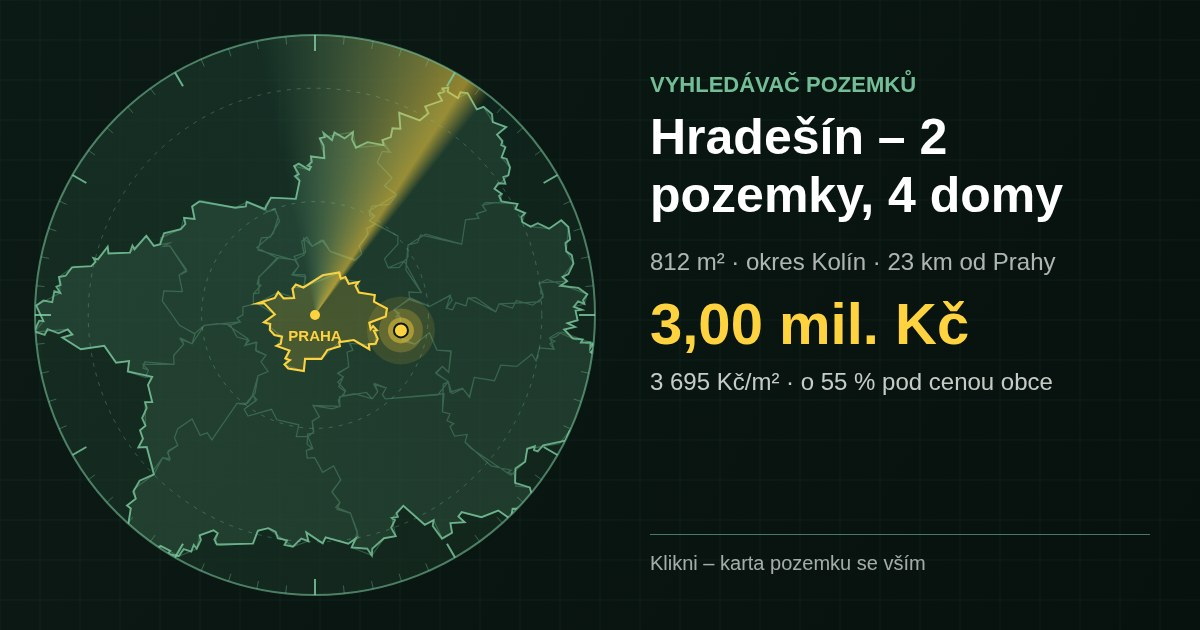
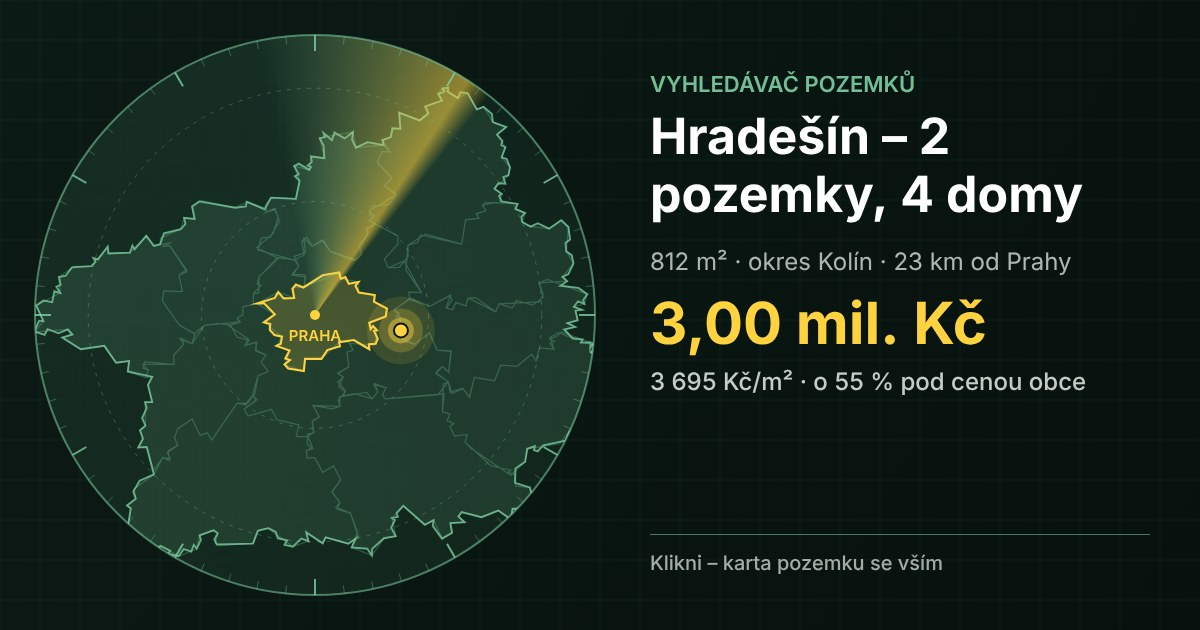
Ranní obnova náhledů Vítězů 2. 11. 2026
Claude-Session: https://claude.ai/code/session_01MoaZpwJieQugdyTZZ3RK1K

diff --git a/k/sreality-3248275532.html b/k/sreality-3248275532.html
@@ -1,8 +1,8 @@
 <!doctype html><html lang="cs"><head><meta charset="utf-8"><meta name="viewport" content="width=device-width,initial-scale=1">
 <title>Hradešín – 2 pozemky, 4 domy · Vyhledávač pozemků</title><meta name="description" content="812 m² · 3,00 mil. Kč · okres Kolín · 23 km od Prahy">
 <meta property="og:type" content="website"><meta property="og:site_name" content="Vyhledávač pozemků"><meta property="og:title" content="Hradešín – 2 pozemky, 4 domy · Vyhledávač pozemků"><meta property="og:description" content="812 m² · 3,00 mil. Kč · okres Kolín · 23 km od Prahy">
-<meta property="og:image" content="https://tommygee-claude.github.io/karta/k/sreality-3248275532.jpg?v=mvvwas2w"><meta property="og:image:width" content="1200"><meta property="og:image:height" content="630"><meta property="og:url" content="https://tommygee-claude.github.io/karta/k/sreality-3248275532.html">
-<meta name="twitter:card" content="summary_large_image"><meta name="twitter:image" content="https://tommygee-claude.github.io/karta/k/sreality-3248275532.jpg?v=mvvwas2w">
+<meta property="og:image" content="https://tommygee-claude.github.io/karta/k/sreality-3248275532.jpg?v=mvyr6lmx"><meta property="og:image:width" content="1200"><meta property="og:image:height" content="630"><meta property="og:url" content="https://tommygee-claude.github.io/karta/k/sreality-3248275532.html">
+<meta name="twitter:card" content="summary_large_image"><meta name="twitter:image" content="https://tommygee-claude.github.io/karta/k/sreality-3248275532.jpg?v=mvyr6lmx">
 <meta http-equiv="refresh" content="0;url=https://claude.ai/artifact/LPUksfypRdYod6b5fz7vpv#karta-sreality-3248275532">
 <style>body{margin:0;background:#0c1a15;color:#e7ece8;font:16px -apple-system,Segoe UI,Roboto,Arial,sans-serif;display:grid;place-items:center;min-height:100vh}a{color:#ffd23f}</style>
 <script>(function(){var c="https://claude.ai/artifact/LPUksfypRdYod6b5fz7vpv#karta-sreality-3248275532";if(!c){var m=location.search.match(/[?&]k=([A-Za-z0-9._~-]{1,200})/);c="https://claude.ai/artifact/LPUksfypRdYod6b5fz7vpv"+(m?'#karta-'+m[1]:'')}location.replace(c)})()</script>

diff --git a/k/sreality-4251652172.html b/k/sreality-4251652172.html
@@ -1,8 +1,8 @@
 <!doctype html><html lang="cs"><head><meta charset="utf-8"><meta name="viewport" content="width=device-width,initial-scale=1">
 <title>Mělnické Vtelno · Vyhledávač pozemků</title><meta name="description" content="1 129 m² · 2,49 mil. Kč · okres Mělník · 35 km od Prahy">
 <meta property="og:type" content="website"><meta property="og:site_name" content="Vyhledávač pozemků"><meta property="og:title" content="Mělnické Vtelno · Vyhledávač pozemků"><meta property="og:description" content="1 129 m² · 2,49 mil. Kč · okres Mělník · 35 km od Prahy">
-<meta property="og:image" content="https://tommygee-claude.github.io/karta/k/sreality-4251652172.jpg?v=mvvwas1w"><meta property="og:image:width" content="1200"><meta property="og:image:height" content="630"><meta property="og:url" content="https://tommygee-claude.github.io/karta/k/sreality-4251652172.html">
-<meta name="twitter:card" content="summary_large_image"><meta name="twitter:image" content="https://tommygee-claude.github.io/karta/k/sreality-4251652172.jpg?v=mvvwas1w">
+<meta property="og:image" content="https://tommygee-claude.github.io/karta/k/sreality-4251652172.jpg?v=mvyr6lkb"><meta property="og:image:width" content="1200"><meta property="og:image:height" content="630"><meta property="og:url" content="https://tommygee-claude.github.io/karta/k/sreality-4251652172.html">
+<meta name="twitter:card" content="summary_large_image"><meta name="twitter:image" content="https://tommygee-claude.github.io/karta/k/sreality-4251652172.jpg?v=mvyr6lkb">
 <meta http-equiv="refresh" content="0;url=https://claude.ai/artifact/LPUksfypRdYod6b5fz7vpv#karta-sreality-4251652172">
 <style>body{margin:0;background:#0c1a15;color:#e7ece8;font:16px -apple-system,Segoe UI,Roboto,Arial,sans-serif;display:grid;place-items:center;min-height:100vh}a{color:#ffd23f}</style>
 <script>(function(){var c="https://claude.ai/artifact/LPUksfypRdYod6b5fz7vpv#karta-sreality-4251652172";if(!c){var m=location.search.match(/[?&]k=([A-Za-z0-9._~-]{1,200})/);c="https://claude.ai/artifact/LPUksfypRdYod6b5fz7vpv"+(m?'#karta-'+m[1]:'')}location.replace(c)})()</script>
